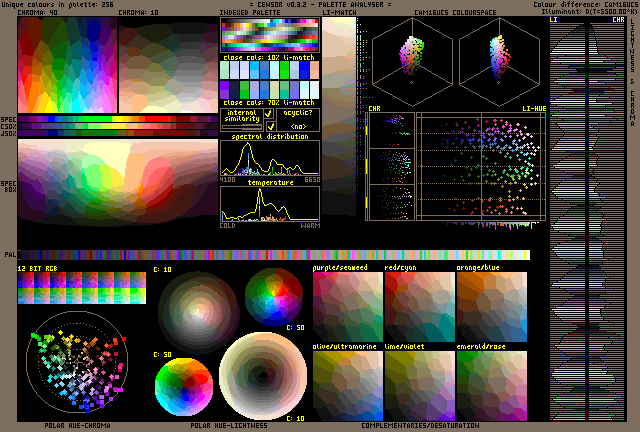
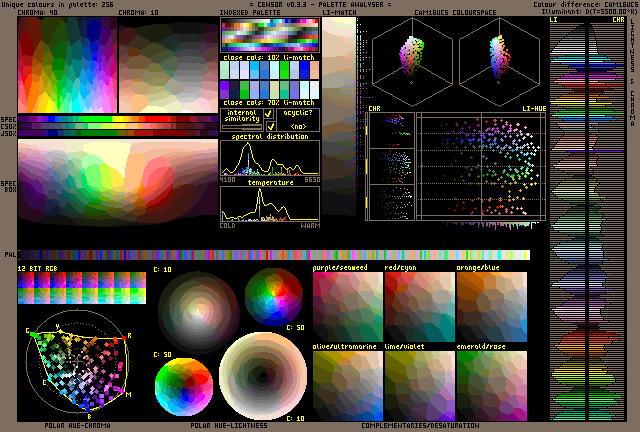
Improved the polar hue-chroma widget; added options to specify the illuminant

Changed region(s): [[0.0312, 0.7222, 0.2188, 0.963], [0.0938, 0.6921, 0.125, 0.7222]]

diff --git a/src/main.rs b/src/main.rs
@@ -146,6 +146,25 @@ fn main() {
                     .help("Loads input colours from https://lospec.com/palette-list/SLUG")
                     .takes_value(true)
             )
+            .group(ArgGroup::with_name("illuminant")
+                .multiple(false)
+                .required(false)
+                .args(&["T", "D"])
+            )
+            .arg(
+                Arg::with_name("T")
+                    .short("T")
+                    .value_name("TEMP")
+                    .help("Use TEMP Kelvins to define the white point for the daylight illuminant. Default: 5500")
+                    .takes_value(true)
+            )
+            .arg(
+                Arg::with_name("D")
+                    .short("D")
+                    .value_name("NUM")
+                    .help("Use a predefined white point for the daylight illuminant. Supported values: 50, 55, 65")
+                    .takes_value(true)
+            )
             .arg(
                 Arg::with_name("outfile")
                     .short("o")
@@ -192,6 +211,25 @@ fn main() {
                     .long("lospec")
                     .value_name("SLUG")
                     .help("Loads input colours from https://lospec.com/palette-list/SLUG")
+                    .takes_value(true)
+            )
+            .group(ArgGroup::with_name("illuminant")
+                .multiple(false)
+                .required(false)
+                .args(&["T", "D"])
+            )
+            .arg(
+                Arg::with_name("T")
+                    .short("T")
+                    .value_name("TEMP")
+                    .help("Use TEMP Kelvins to define the white point for the daylight illuminant. Default: 5500")
+                    .takes_value(true)
+            )
+            .arg(
+                Arg::with_name("D")
+                    .short("D")
+                    .value_name("NUM")
+                    .help("Use a predefined white point for the daylight illuminant. Supported values: 50, 55, 65")
                     .takes_value(true)
             )
             .group(ArgGroup::with_name("metrics")
@@ -290,7 +328,26 @@ fn main_analyse<'a>(matches: &clap::ArgMatches<'a>) {
 
     let font = Font::new();
     let mut cacher = PlotCacher::new();
-    let T = 5500.;
+    let T: f32;
+    if let Some(D) = matches.value_of("D") {
+        match D {
+            "50" => { T = 5000.00 }
+            "55" => { T = 5500.00 }
+            "65" => { T = 6503.51 }
+            _ => {
+                eprintln!("Invalid illuminant preset: D{}", D);
+                std::process::exit(1);
+            }
+        }
+    } else {
+        T = match str::parse(matches.value_of("T").unwrap_or("5500")) {
+            Ok(x) => { x }
+            Err(e) => {
+                eprintln!("Error parsing temperature: {}", e);
+                std::process::exit(1);
+            }
+        };
+    }
 
     let colours = palette_from_cmd(matches, verbose);
 
@@ -326,7 +383,26 @@ fn main_daemon<'a>(matches: &clap::ArgMatches<'a>) {
 }
 
 fn main_compute<'a>(matches: &clap::ArgMatches<'a>) {
-    let T = 5500.;
+    let T: f32;
+    if let Some(D) = matches.value_of("D") {
+        match D {
+            "50" => { T = 5000.00 }
+            "55" => { T = 5500.00 }
+            "65" => { T = 6503.51 }
+            _ => {
+                eprintln!("Invalid illuminant preset: D{}", D);
+                std::process::exit(1);
+            }
+        }
+    } else {
+        T = match str::parse(matches.value_of("T").unwrap_or("5500")) {
+            Ok(x) => { x }
+            Err(e) => {
+                eprintln!("Error parsing temperature: {}", e);
+                std::process::exit(1);
+            }
+        };
+    }
     let ill = CAT16Illuminant::new(CIExy::from_T(T));
 
     let colours = palette_from_cmd(matches, false);

diff --git a/src/widget.rs b/src/widget.rs
@@ -1067,10 +1067,10 @@ impl HueChromaPolarWidget {
 impl Widget for HueChromaPolarWidget {
     fn render(&self,
               graph: &mut ImageGraph,
-              _cacher: &mut PlotCacher,
+              cacher: &mut PlotCacher,
               palette: &Palette,
-              _ill: &CAT16Illuminant,
-              _font: &Font,
+              ill: &CAT16Illuminant,
+              font: &Font,
               x0: i32, y0: i32) {
         let r = self.d / 2;
         let cx = x0 + r;
@@ -1079,8 +1079,42 @@ impl Widget for HueChromaPolarWidget {
         graph.circle(x0, y0, self.d, palette.bg_rgb, None);
         graph.line(cx - cross_l, cy, cx + cross_l, cy, palette.bg_rgb, None);
         graph.line(cx, cy - cross_l, cx, cy + cross_l, palette.bg_rgb, None);
-        for radius in [r / 4 + 1, r / 2 + 1, r * 3 / 4 + 1] {
-            graph.circle(cx - radius, cy - radius, radius * 2, palette.bg_rgb, Some(3));
+        for radius in [r / 4, r / 2, r * 3 / 4] {
+            graph.circle(cx - radius, cy - radius, radius * 2 + 1, palette.bg_rgb, Some(3));
+        }
+
+        let boundary = cacher.get_cam16_boundary(ill);
+        let boundary_n = boundary.len();
+        for i in 0..boundary_n {
+            let j = (i + 1) % boundary_n;
+            let a_i = (i as f32 / boundary_n as f32) * 2. * PI;
+            let C_i = boundary[i];
+            let a_j = (j as f32 / boundary_n as f32) * 2. * PI;
+            let C_j = boundary[j];
+            let x_i = cx + (C_i * r as f32 * a_i.cos()).round() as i32;
+            let y_i = cy - (C_i * r as f32 * a_i.sin()).round() as i32;
+            let x_j = cx + (C_j * r as f32 * a_j.cos()).round() as i32;
+            let y_j = cy - (C_j * r as f32 * a_j.sin()).round() as i32;
+            graph.line(x_i, y_i, x_j, y_j, palette.fg_rgb, None);
+        }
+
+        let marks = [
+            (255,   0, 0, "R"),
+            (255, 255, 0, "Y"),
+            (0, 255,   0, "G"),
+            (0, 255, 255, "C"),
+            (0,   0, 255, "B"),
+            (255, 0, 255, "M")
+        ];
+        for (rr, gg, bb, text) in marks {
+            let rgb = RGB255::new(rr, gg, bb);
+            let xyz = CIEXYZ::from(rgb);
+            let cam16 = CAM16UCS::of(xyz, ill);
+            let h = f32::atan2(cam16.b, cam16.a);
+            let C = cam16.C / 100.;
+            let x = cx + ((C * r as f32 + 6.) * h.cos()).round() as i32;
+            let y = cy - ((C * r as f32 + 6.) * h.sin()).round() as i32;
+            graph.text(text, x, y, TextAnchor::c(), font, palette.fg_rgb);
         }
 
         let min_dd = if palette.n <= 24 { 4 } else { 2 };
@@ -1092,7 +1126,7 @@ impl Widget for HueChromaPolarWidget {
         for i in 0..palette.n {
             let c = palette.cam16[i];
             let h = f32::atan2(c.b, c.a);
-            let mut C = (c.C / 100.).clip(0., 1.);
+            let mut C = c.C / 100.;
             if C <= 0.1 { C = 0.; }
             let dd = 2 + min_dd + (C * (max_dd - min_dd) as f32).round() as i32;
             let x = cx + (C * r as f32 * h.cos()).round() as i32;

diff --git a/src/cache.rs b/src/cache.rs
@@ -1,3 +1,4 @@
+use crate::util::{Clip, CyclicClip};
 use crate::colour::*;
 
 use std::collections::HashMap;
@@ -20,11 +21,12 @@ impl<T: Copy> PlotData<T> {
 
 #[derive(Clone)]
 pub struct PlotCacher {
-    cache: HashMap<String, PlotData<CAM16UCS>>
+    cache: HashMap<String, PlotData<CAM16UCS>>,
+    cam16_boundary: Option<Vec<f32>>
 }
 impl PlotCacher {
     pub fn new() -> Self {
-        Self { cache: HashMap::new() }
+        Self { cache: HashMap::new(), cam16_boundary: None }
     }
     pub fn get<F: Fn() -> PlotData<CAM16UCS>>(&mut self, key: &str, f: F) -> &PlotData<CAM16UCS> {
         let s: String = key.into();
@@ -33,6 +35,46 @@ impl PlotCacher {
             self.cache.insert(s.clone(), data);
         }
         return &self.cache[&s];
+    }
+    pub fn get_cam16_boundary(&mut self, ill: &CAT16Illuminant) -> &Vec<f32> {
+        if let None = self.cam16_boundary {
+            self.cam16_boundary = Some(Self::compute_cam16_boundary(ill));
+        }
+        self.cam16_boundary.as_ref().unwrap()
+    }
+    fn compute_cam16_boundary(ill: &CAT16Illuminant) -> Vec<f32> {
+        use std::f32::consts::PI;
+        let n = 400;
+        let mut boundary = vec![0.; n];
+
+        fn nearest_angle(n: usize, a: f32) -> usize {
+            ((a * n as f32).round() as usize).clip(0, n) % n
+        }
+        fn consider(boundary: &mut Vec<f32>, ill: &CAT16Illuminant, r: u8, g: u8, b: u8) {
+            use crate::colour::*;
+            let n = boundary.len();
+            let rgb = RGB255::new(r, g, b);
+            let xyz = CIEXYZ::from(rgb);
+            let cam16 = CAM16UCS::of(xyz, ill);
+            let a = (f32::atan2(cam16.b, cam16.a) / (2. * PI)).cyclic_clip(1.);
+            let C = cam16.C / 100.;
+            let i = nearest_angle(n, a);
+            boundary[i] = f32::max(C, boundary[i]);
+        }
+
+        // Iterating faces of the RGB cube should be enough
+        for i in 0..=255 {
+            for j in 0..=255 {
+                consider(&mut boundary, ill, 0, i, j);
+                consider(&mut boundary, ill, i, 0, j);
+                consider(&mut boundary, ill, i, j, 0);
+                consider(&mut boundary, ill, 255, i, j);
+                consider(&mut boundary, ill, i, 255, j);
+                consider(&mut boundary, ill, i, j, 255);
+            }
+        }
+
+        return boundary;
     }
     // TODO: save/load once daemon mode is ready
 }

diff --git a/src/loader.rs b/src/loader.rs
@@ -100,7 +100,8 @@ pub fn load_from_file(filename: String) -> Result<Vec<RGB255>, LoadError> {
     let file = std::fs::File::open(filename).map_err(|e| LoadError::FileOpen(e))?;
     let reader = std::io::BufReader::new(file);
     for line in reader.lines() {
-        let c = parse_hex(line.map_err(|e| LoadError::FileRead(e))?.clone())?;
+        let line = line.map_err(|e| LoadError::FileRead(e))?;
+        let c = parse_hex(line)?;
         colours.push(c);
     }
     return Ok(colours);

diff --git a/src/analyse.rs b/src/analyse.rs
@@ -253,8 +253,8 @@ pub fn analyse(
     rgb12bit.render(&mut graph, cacher, &palette, &ill, font, inner_x + 1, rgb12bit_y);
 
     let huechroma_x = inner_x + 8;
-    let huechroma_y = inner_y + 294;
-    let huechroma_d = 104;
+    let huechroma_y = inner_y + 293;
+    let huechroma_d = 105;
     graph.text("POLAR HUE-CHROMA",
                huechroma_x + huechroma_d / 2, inner_y + inner_h + 1, TextAnchor::n(), font,
                palette.bl_rgb);

diff --git a/README.md b/README.md
@@ -25,6 +25,12 @@ in the working directory even if the file exists.
 Specify another output file with `-o another.png` argument.
 To use black, grey and white for UI instead of
 choosing palette colours, pass the `-g` flag.
+The illuminant is a daylight illuminant
+with the white point generated by the temperature T
+in Kelvins, 5500 by default;
+the option `-T` may be used to redefine T;
+the option `-D` may be used for the following presets:
+`-D50`, `-D55`, `-D65`.
 
 Analyse a palette from an image `input.png`:
 ```
@@ -43,7 +49,7 @@ Analyse a palette from lospec.com `aurora`:
 $ censor analyse -l aurora
 ```
 ### `censor compute`
-Palette input options are the same as for `censor analyse`.
+Palette input and illuminant options are the same as for `censor analyse`.
 In addition, there are options for specifying which metrics should be
 computed.
 `-a, --all` activates all the metrics.
